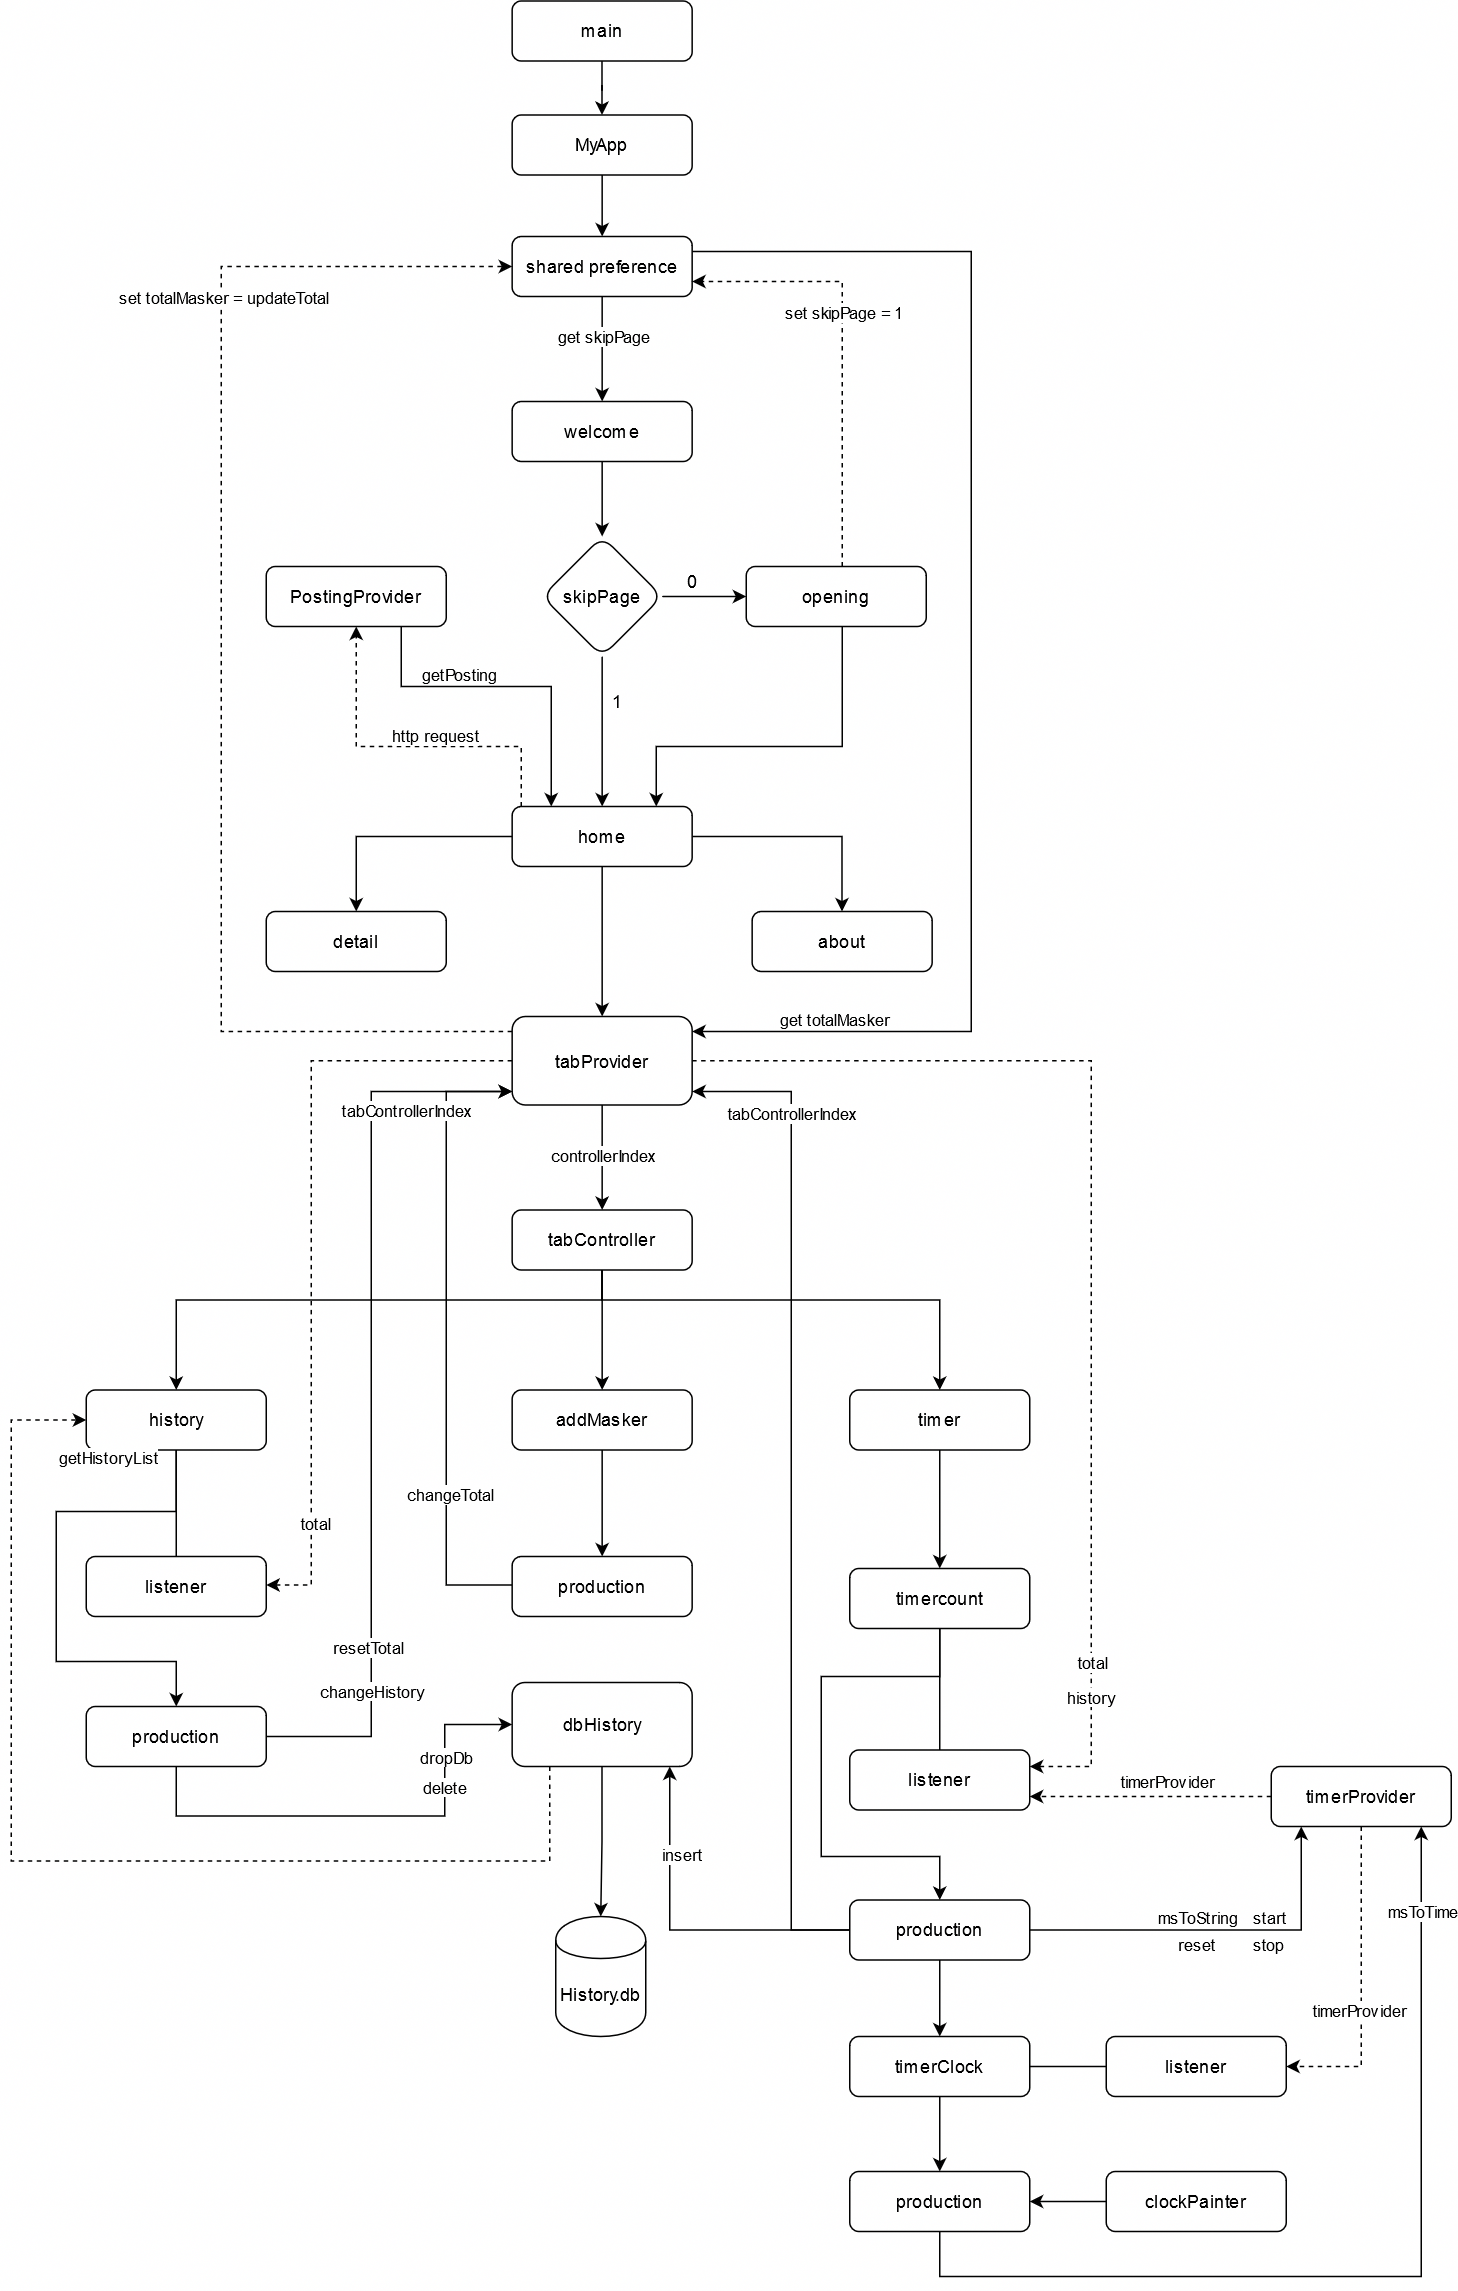
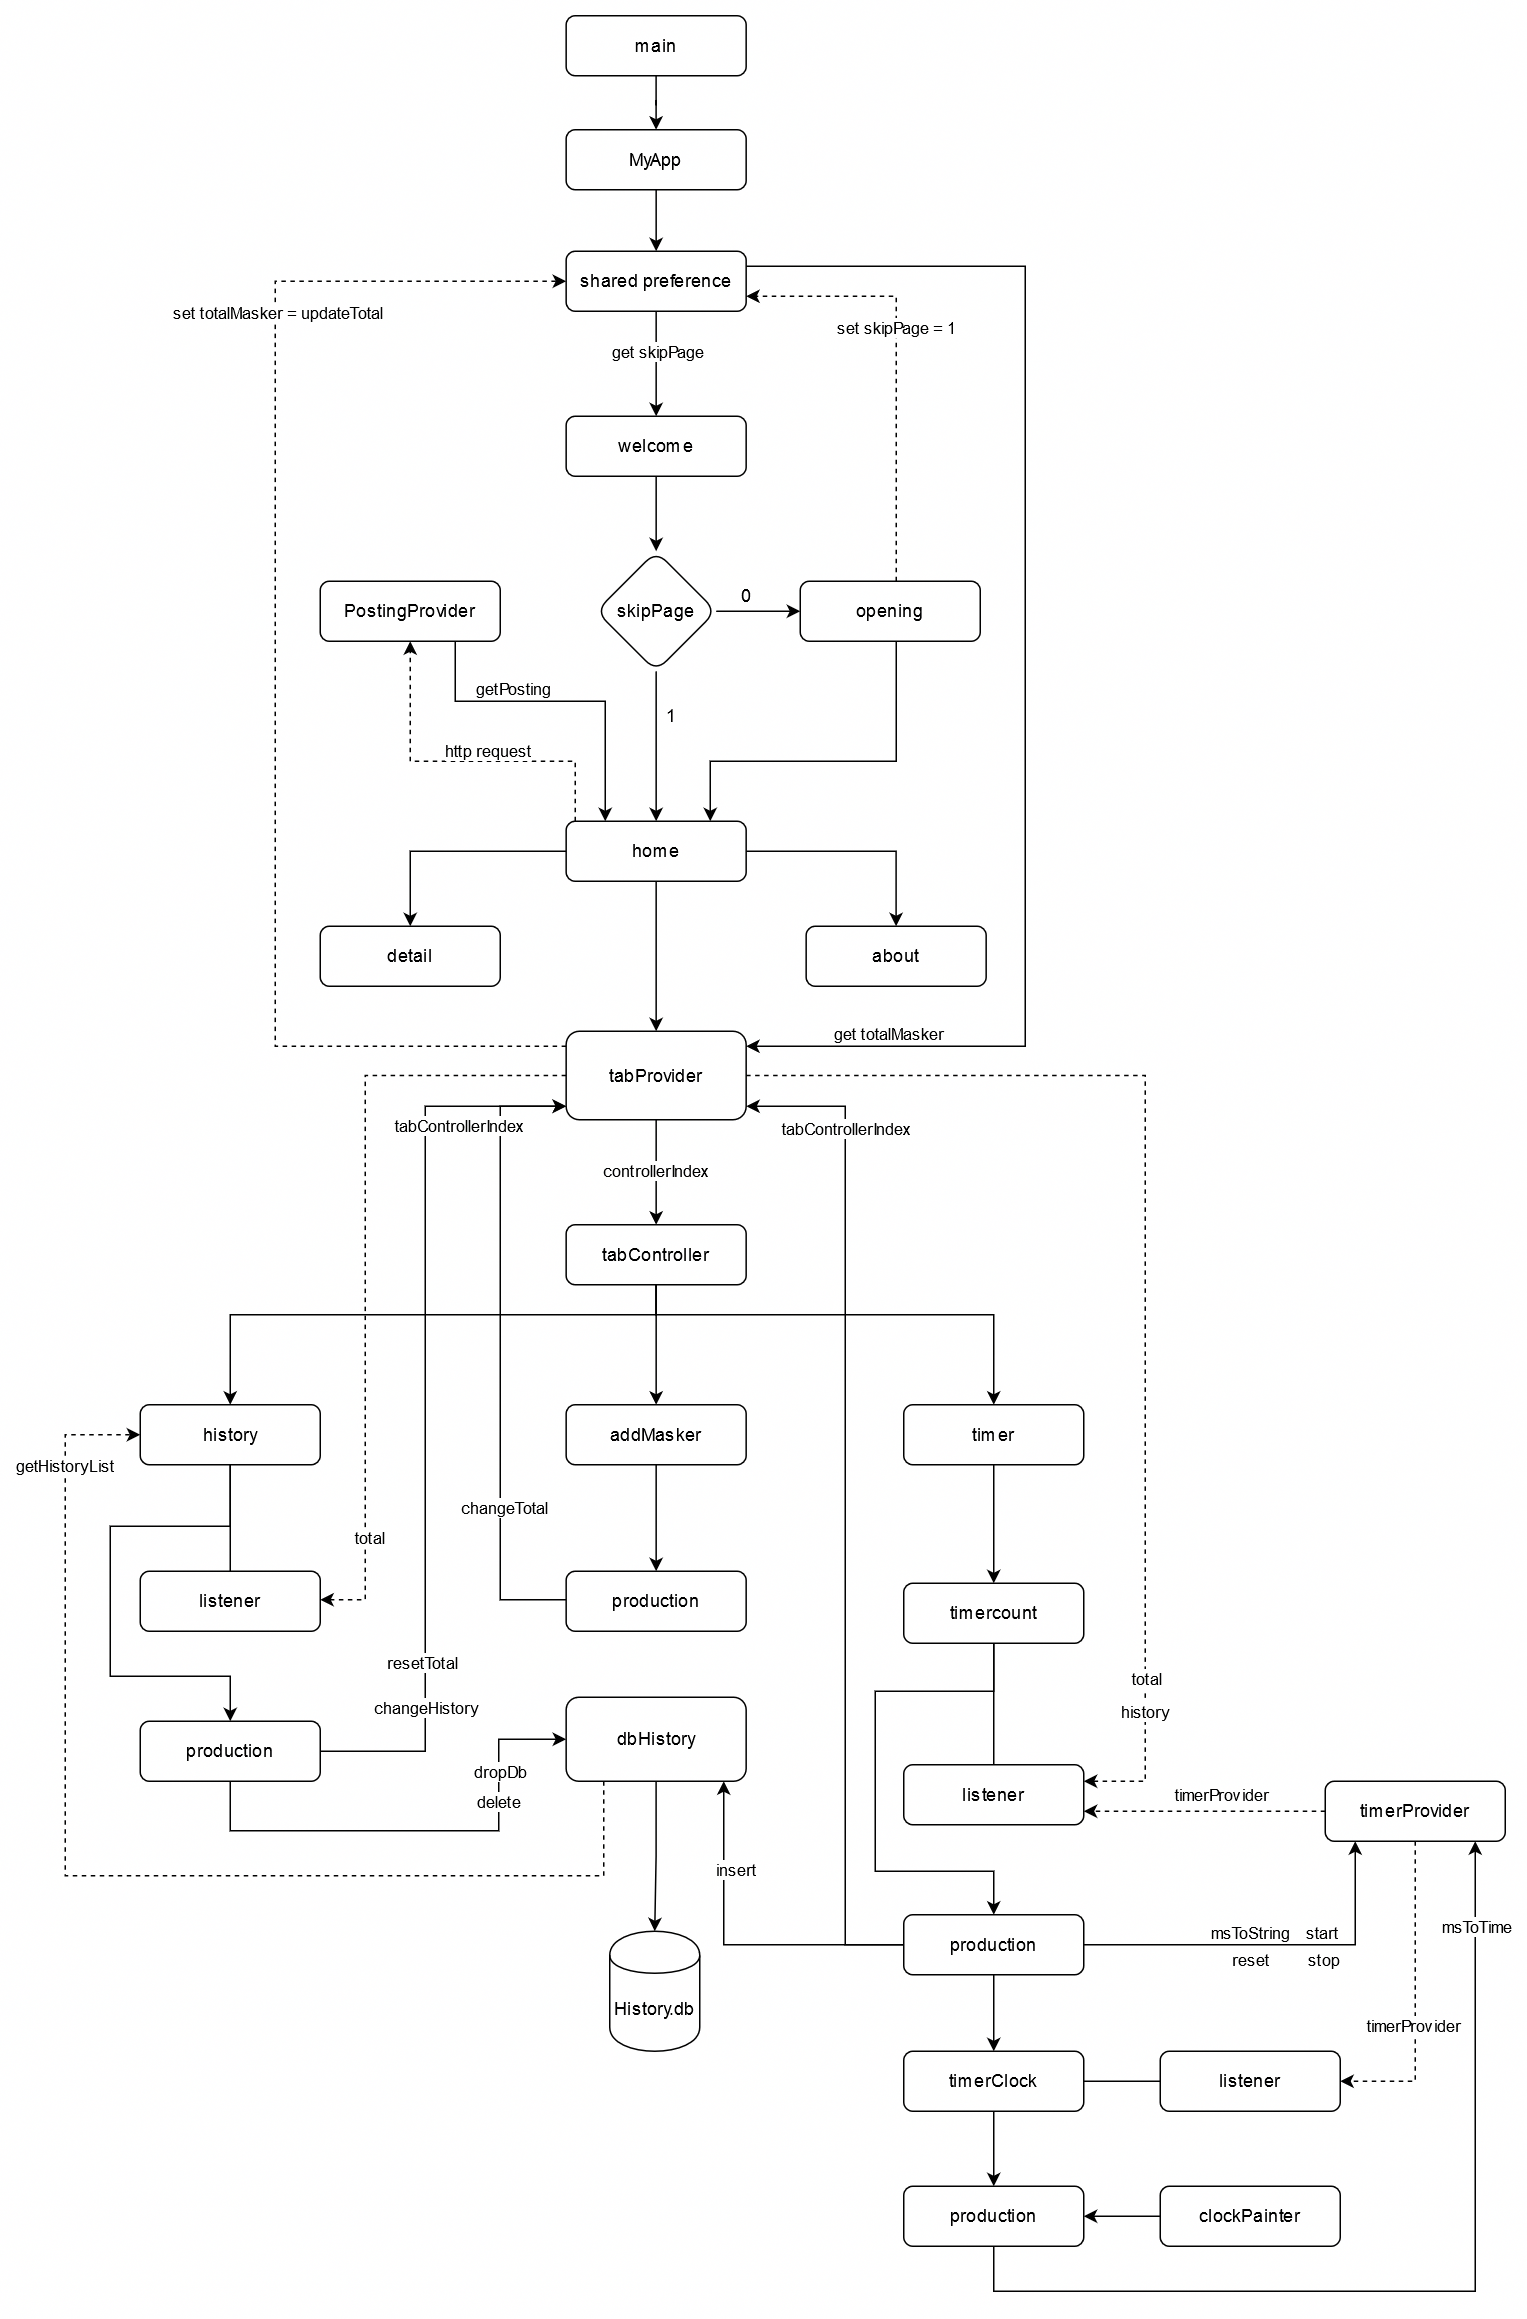
revisi diagram

diff --git a/README.md b/README.md
@@ -32,7 +32,7 @@ Dengan demikian dapat membantu mengurangi tingat penyebaran virus.
 
 ## Class Diagram
 
-[![e-Masker-diagram.png](https://i.postimg.cc/Bn8zkLzB/e-Masker-diagram.png)](https://postimg.cc/v4sX6Bb4)
+[![e-Masker-diagram.png](https://i.postimg.cc/FswpfPP0/e-Masker-diagram.png)](https://postimg.cc/dLmrp9c0)
 
 ## Progress UTS
 
